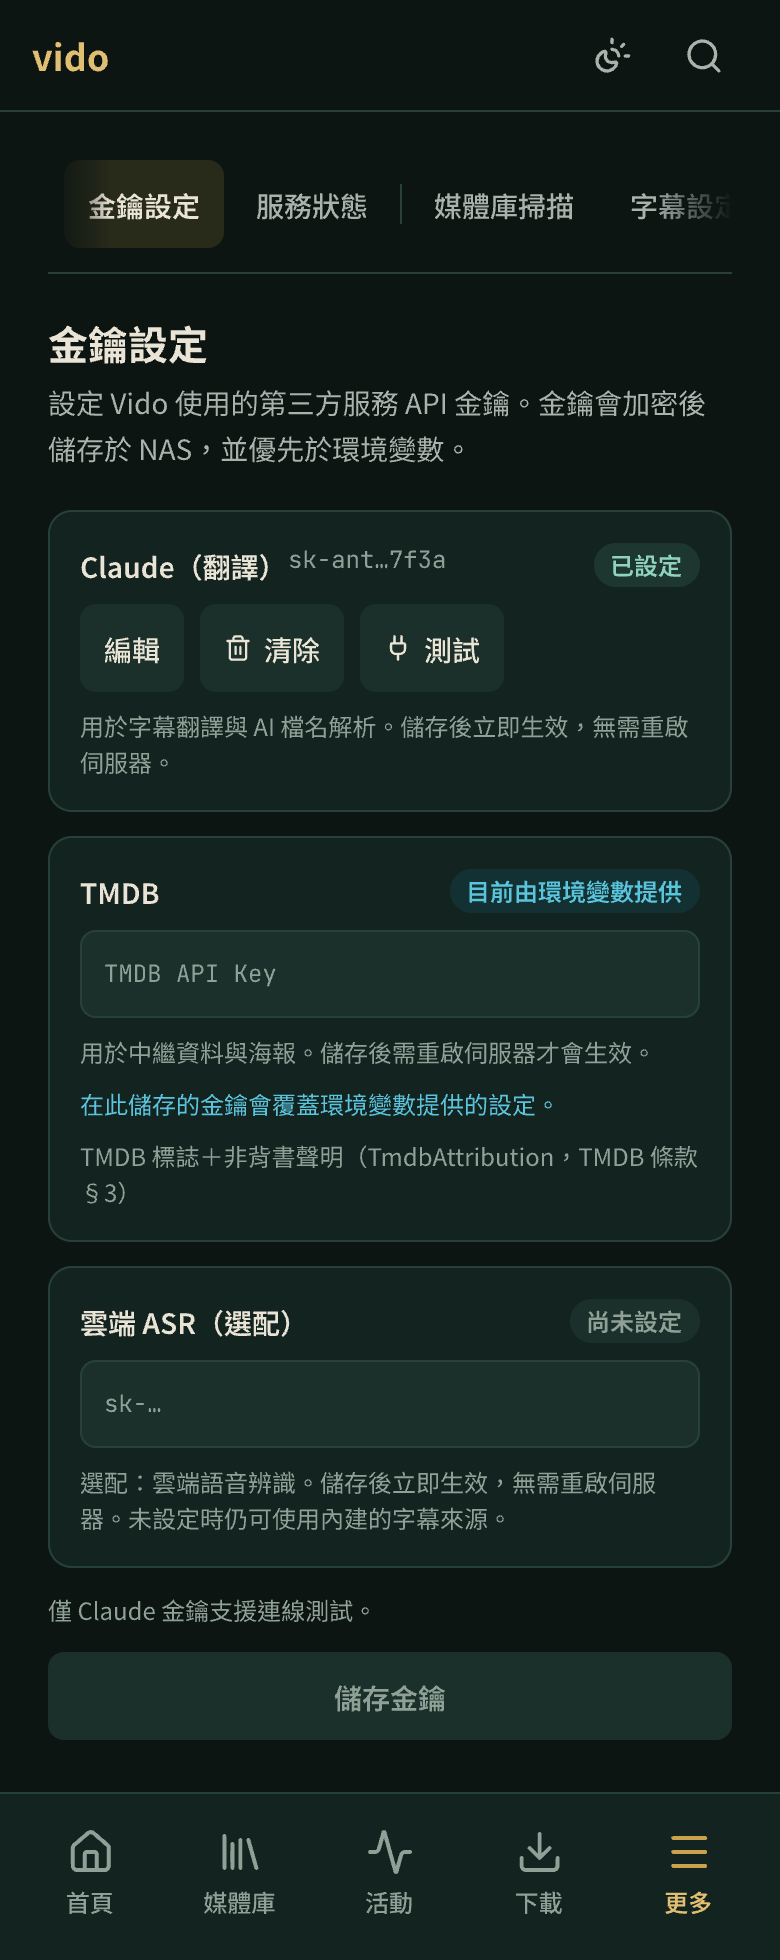
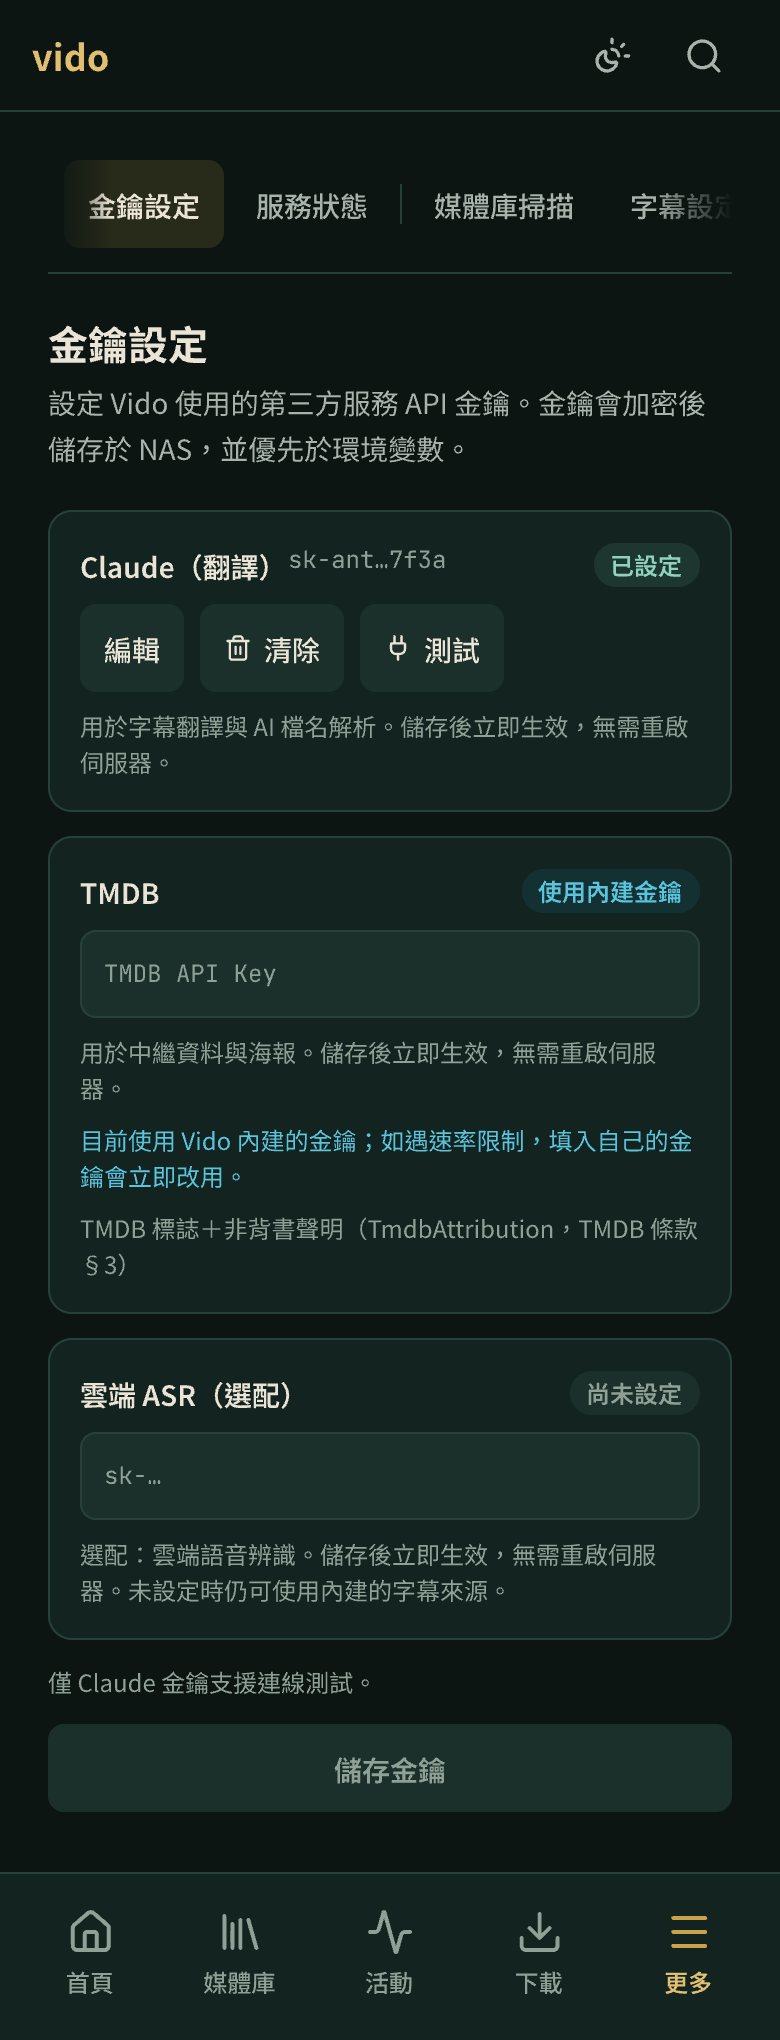
feat(sub-7-7b): update UX design — 金鑰設定與精靈的設計稿改成「使用內建金鑰」文案 (#629)
原本會怎樣：
  設計稿 C7-D／C7-M 的 TMDB 列還寫「儲存後需重啟伺服器才會生效」（這句從來不成立），
  狀態示範的是環境變數；精靈 N4-D 還嚇人說跳過會抓不到元資料。程式碼（#626）已經換了，稿沒跟上。
改成怎樣：
  C7-D／C7-M：TMDB 膠囊「使用內建金鑰」、說明「儲存後立即生效，無需重啟伺服器」、
  靛青一行「目前使用 Vido 內建的金鑰；如遇速率限制，填入自己的金鑰會立即改用」。
  N4-D：TMDb 欄位 placeholder「可留空，使用內建金鑰」、提示「已內建預設金鑰，可留空…」、
  跳過警語只提 AI 檔名解析與字幕翻譯。
  9 個文字節點由 Alexyu 跑 Pencil Inline AI Agent 改，Sally 以 MCP 唯讀 review 逐字相符、無裁切。
怎麼確定：
  只 stage 三張真的變的截圖（c7-d／c7-m／n4-d），其餘 10 張重繪雜訊已還原；
  check-design-tokens.py 一致；prettier 通過。

Claude-Session: https://claude.ai/code/session_01JgprFTUJ1NeST6VGojH4G5

diff --git a/_bmad-output/implementation-artifacts/sub-7-7b-bundled-tmdb-key-fe.md b/_bmad-output/implementation-artifacts/sub-7-7b-bundled-tmdb-key-fe.md
@@ -34,7 +34,7 @@ Status: done
 - [x] Task 1 — 型別＋`ApiKeysForm` 標籤／hint／清除文案＋spec（AC #1–#3, #6）
 - [x] Task 2 — 精靈 `ApiKeysStep` 依 source 切文案＋spec（AC #4, #6）
 - [x] Task 3 — 服務狀態 rate_limited 提示＋spec（AC #5, #6）
-- [ ] Task 4 — 設計稿 C7-D／C7-M／N4-D 文案對齊（**交 Alexyu 跑 Pencil Inline AI Agent**，依 `feedback_pen_inline_agent_workflow`；提示詞見下）→ ⌘S → `python3 scripts/export-pen-screenshots.py` → 只 stage `c7-d`／`c7-m`／`n4-d` 三張 → commit
+- [x] Task 4 — 設計稿 C7-D／C7-M／N4-D 文案對齊（2026-09-30 Alexyu 跑完 inline agent；Sally MCP 唯讀 review：9 個文字節點逐字相符、三張 problems 為 0（C7-M 的 tabs-strip 橫向捲動裁切為既有設計）；N4-D 補了第二段提示詞的 `qTesB`／`lidJ4` 兩節點）（**交 Alexyu 跑 Pencil Inline AI Agent**，依 `feedback_pen_inline_agent_workflow`；提示詞見下）→ ⌘S → `python3 scripts/export-pen-screenshots.py` → 只 stage `c7-d`／`c7-m`／`n4-d` 三張 → commit
 - [x] Task 5 — 全量驗證（web 4,400 綠、typecheck、lint、prettier；visual 本機比對綠）
 
 ### Task 4 提示詞（Sally 2026-09-30，節點錨定；貼給 Pencil Inline AI Agent 原樣執行）
@@ -95,3 +95,4 @@ Claude Fable 5.1（Amelia）
 | 2026-09-30 | create-story（SM Bob，自 sub-7-7 拆出）。 |
 | 2026-09-30 | dev-story（Amelia）→ review；Task 4（.pen）交 Alexyu 跑 inline agent。 |
 | 2026-09-30 | PR #626 合併（linux 基準 #627）→ done；Task 4 `.pen` 文案待 Alexyu 跑 inline agent。 |
+| 2026-09-30 | Task 4 `.pen` 文案由 Alexyu 跑 inline agent 完成；Sally review 通過；截圖 c7-d／c7-m／n4-d 重出。 |
